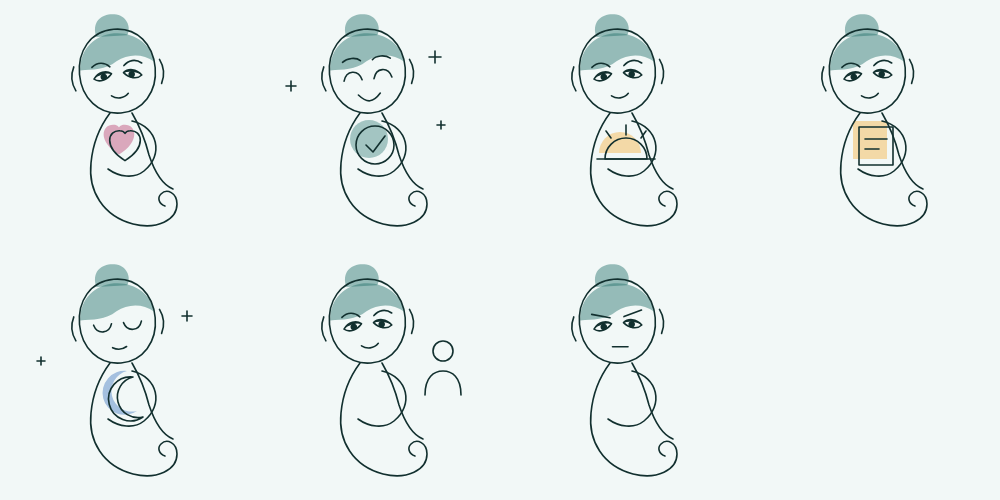
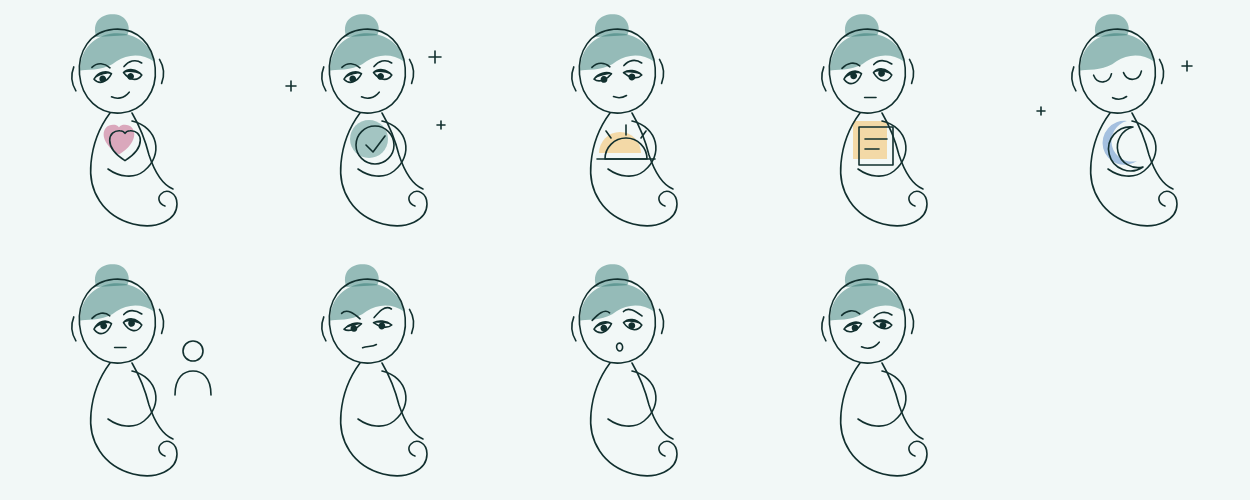
Illustration: expression set studied from reference (serene, tender, wry, stern, worried, watchful); used on Today, Missed, Gate, Debrief
Claude-Session: https://claude.ai/code/session_01JtwwLxtQC1tkxhTDz3rMgK

diff --git a/android/app/src/main/kotlin/app/nayom/ui/screens/Screens.kt b/android/app/src/main/kotlin/app/nayom/ui/screens/Screens.kt
@@ -57,6 +57,7 @@ fun TodayScreen(st: AppState) = Screen(actions = {
     val miss = st.unhandledMiss
     if (miss != null) {
         Card {
+            Row(Modifier.fillMaxWidth(), horizontalArrangement = Arrangement.Center) { Illustration("face_stern", colors.berry, 150) }
             Text("MISSED", style = NayomType.status, color = colors.berry)
             Spacer(Modifier.height(12.dp))
             Text("${miss.person}'s ${miss.what.lowercase()} was due at ${miss.due.format(hm)}.", style = NayomType.title, color = colors.ink)
@@ -190,8 +191,9 @@ fun GateScreen(st: AppState, askId: String) {
         Button("Yes", false, Modifier.fillMaxWidth()) { if (!locked) go(Decision.Yes) }
         Spacer(Modifier.height(4.dp))
         Row(Modifier.fillMaxWidth(), horizontalArrangement = Arrangement.Center) { Label(if (locked) "Yes and Later unlock in $left s" else "Choose") }
-    }) {
-        Title("Before you say yes")
+    }, scroll = true) {
+        Row(Modifier.fillMaxWidth(), horizontalArrangement = Arrangement.Center) { Illustration("face_wry", colors.berry, 170) }
+    Title("Before you say yes")
         Text("${a.from} asks: ${a.what}.", style = NayomType.title, color = colors.ink)
         val clash = st.open.firstOrNull { it.due.isBefore(st.now.plusHours(24)) }
         if (clash != null) Card { IconLine(R.drawable.ic_clock, colors.amber, "Pushes out ${clash.person}'s ${clash.what.lowercase()}, due ${clash.due.format(hm)}.") }
@@ -206,6 +208,7 @@ fun DebriefScreen(st: AppState, id: String) {
         Button("Save", why.isNotBlank(), Modifier.fillMaxWidth()) { if (why.isNotBlank()) st.debrief(id, why) }
         Button("Back", false, Modifier.fillMaxWidth()) { st.back() }
     }, scroll = true) {
+        Row(Modifier.fillMaxWidth(), horizontalArrangement = Arrangement.Center) { Illustration("face_worried", colors.sky, 170) }
         Title("Debrief")
         Text("What got in the way of ${p?.what?.lowercase() ?: "it"}?", style = NayomType.title, color = colors.ink)
         Field("One line, honest", why, { why = it }, false, 120)

diff --git a/design/illustrations/ill6.py b/design/illustrations/ill6.py
@@ -19,21 +19,43 @@ BUN="M92 24C88 8 100 1 112 3C124 5 128 17 123 25Z"
 EARL="M67 52C63 60 63 68 67 76"; EARR="M153 52C157 60 157 68 153 76"
 BODY="M99 102C90 114 82 130 80 152C77 180 92 205 122 213C146 219 166 209 166 193C166 182 156 177 150 183C146 187 148 193 154 195"
 BODY2="M121 102C128 114 134 128 138 144C144 162 152 174 162 178"
-def almond(_):
-    # leaf-shaped eyes, outer corners a touch lower, as in the reference
-    return ["M86 66C91 58 99 57 104 62C99 72 91 74 86 66Z","M134 66C129 58 121 57 116 62C121 72 129 74 134 66Z"]
-def almond_fill():
-    # iris dots + a bold upper lid (thin filled crescent)
-    return [ell(96,65.5,3.6,3.6),ell(124,65.5,3.6,3.6),"M86 66C91 58 99 57 104 62C99 60 91 62 86 66Z","M134 66C129 58 121 57 116 62C121 60 129 62 134 66Z"]
+def L(x): return 220-x   # mirror about the head's centre line
+def pth(pts): return pts
+def eye_pair(open_, dx=0, dy=0, r=3.4):
+    up=(1-open_)*5
+    def one(mirror):
+        X=(lambda x: L(x)) if mirror else (lambda x: x)
+        o=(X(86),66); i=(X(104),62)
+        c1=(X(91),58+up); c2=(X(99),57+up)
+        l1=(X(99),62+10*open_); l2=(X(91),66+8*open_)
+        return f"M{o[0]} {o[1]}C{c1[0]} {c1[1]:.1f} {c2[0]} {c2[1]:.1f} {i[0]} {i[1]}C{l1[0]} {l1[1]:.1f} {l2[0]} {l2[1]:.1f} {o[0]} {o[1]}Z", \
+               f"M{o[0]} {o[1]}C{c1[0]} {c1[1]:.1f} {c2[0]} {c2[1]:.1f} {i[0]} {i[1]}C{X(99)} {60+up:.1f} {X(91)} {62+up/2:.1f} {o[0]} {o[1]}Z"
+    (lo,lc),(ro,rc)=one(False),one(True)
+    cy=65+dy+(1-open_)*2
+    return [lo,ro],[ell(96+dx,cy,r,r),ell(124+dx,cy,r,r),lc,rc]
+def brows(lo,li,ro,ri,arch=5):
+    return [f"M85 {lo}C91 {lo-arch} 98 {li-arch} 103 {li}", f"M135 {ro}C129 {ro-arch} 122 {ri-arch} 117 {ri}"]
+MOUTH={"smile":"M102 84C107 88 114 88 119 84","smirk":"M102 85C107 88 114 88 120 82","soft":"M104 85C108 87 113 87 117 85",
+       "flat":"M103 86C108 85 113 86 117 84","oh":None,"line":"M105 86H115"}
+def face_parts(op,dx,dy,b,mouth,r=3.4):
+    e,d=eye_pair(op,dx,dy,r)
+    m=[MOUTH[mouth]] if MOUTH[mouth] else [ell(110,86,3,4)]
+    return e+brows(*b)+m, d
+FACES={ # open, look dx, look dy, brows (outerL,innerL,outerR,innerR), mouth
+ "serene": (.55,0,1.2,(54,55,54,55),"soft"),
+ "tender": (.8,-1.2,1,(54,56,54,56),"smirk"),
+ "wry":    (.7,1.2,0,(52,52,56,57),"smirk"),
+ "stern":  (.45,0,0,(50,57,50,57),"flat"),
+ "worried":(.85,0,.5,(57,51,57,51),"oh"),
+ "watchful":(1,0,-1.5,(55,54,55,54),"line"),
+}
 def eyes(kind):
-    if kind=="calm":
-        return almond(0)+["M85 54C91 49 98 50 103 55","M135 54C129 49 122 50 117 55","M102 84C107 88 114 88 119 83"],almond_fill()
+    if kind in FACES:
+        op,dx,dy,b,m=FACES[kind]; return face_parts(op,dx,dy,b,m)
     if kind=="happy":
         return ["M86 68C89 57 101 57 104 68","M116 68C119 57 131 57 134 68","M86 49C91 45 100 45 104 49","M134 49C129 45 120 45 116 49","M99 83C107 92 113 92 121 83"],[]
     if kind=="sleep":
         return ["M86 62C89 72 101 72 104 62","M116 62C119 72 131 72 134 62","M103 86C108 89 112 89 117 86"],[]
-    if kind=="stern":
-        return almond(0)+["M85 51L103 56","M135 51L117 56","M103 85H117"],almond_fill()
 def arms(): return ["M121 110C147 116 153 144 133 160C123 168 108 166 97 158"]
 def robot(kind):
     e,d=eyes(kind)
@@ -46,19 +68,19 @@ def scene(n,col,kind,prop_line,prop_fill,tx=6,ty=6,sc=1.0,front=None,extra=()):
     dots=[rot(x,-5,110,102) for x in d]
     S[n]=dict(col=col,robot=rb,dots=dots,brand=br,prop=prop_line,fill=prop_fill,arms=arms(),extra=list(extra),tx=tx,ty=ty,sc=sc)
 H=heart(114,136,.85)
-scene("nothing_owed","#B3265B","calm",[H],[H])
+scene("nothing_owed","#B3265B","tender",[H],[H])
 CK=circ(114,134,19)
-scene("all_kept","#23706B","happy",[CK,"M105 134L112 141L124 125"],[CK],extra=["M174 40V52M168 46H180","M30 70V80M25 75H35","M180 110V118M176 114H184"])
+scene("all_kept","#23706B","tender",[CK,"M105 134L112 141L124 125"],[CK],extra=["M174 40V52M168 46H180","M30 70V80M25 75H35","M180 110V118M176 114H184"])
 SUN="M94 148A21 21 0 0 1 136 148Z"
-scene("clear_sky","#F5A524","calm",[SUN,"M86 148H144","M115 114V124","M135 120L130 127","M95 120L100 127"],[SUN])
+scene("clear_sky","#F5A524","serene",[SUN,"M86 148H144","M115 114V124","M135 120L130 127","M95 120L100 127"],[SUN])
 PG="M98 116H132V154H98Z"
-scene("blank_page","#F5A524","calm",[PG,"M104 128H126","M104 138H118"],[PG])
+scene("blank_page","#F5A524","watchful",[PG,"M104 128H126","M104 138H118"],[PG])
 MN="M122 116A22 22 0 1 0 132 156A17 17 0 0 1 122 116Z"
 scene("quiet_day","#2563B8","sleep",[MN],[MN],extra=["M176 50V60M171 55H181","M30 96V104M26 100H34"])
-scene("no_one_yet","#2563B8","calm",[],[],extra=[circ(182,90,10),"M164 134C164 116 173 110 182 110C191 110 200 116 200 134"])
-scene("stern","#B3265B","stern",[],[])
+scene("no_one_yet","#2563B8","watchful",[],[],extra=[circ(182,90,10),"M164 134C164 116 173 110 182 110C191 110 200 116 200 134"])
+for k in ("stern","worried","wry"): scene("face_"+k,"#B3265B",k,[],[])
 json.dump(S,open("scenes6.json","w"))
-def svg(names,SW=1.6,cols=4):
+def svg(names,SW=1.6,cols=5):
     out=""
     for i,n in enumerate(names):
         s=S[n]; x=(i%cols)*250; y=(i//cols)*250
@@ -69,5 +91,5 @@ def svg(names,SW=1.6,cols=4):
         g+="".join(f'<path d="{d}"/>' for d in s["robot"])+"".join(f'<path d="{d}" fill="{INK}" stroke="none"/>' for d in s["dots"])
         g+="".join(f'<path d="{d}"/>' for d in s["prop"]+s["arms"]+s["extra"])+'</g>'
         out+=g+"</g>"
-    return f'<svg xmlns="http://www.w3.org/2000/svg" width="1000" height="500"><rect width="1000" height="500" fill="#F2F8F7"/>{out}</svg>'
+    return f'<svg xmlns="http://www.w3.org/2000/svg" width="1250" height="500"><rect width="1250" height="500" fill="#F2F8F7"/>{out}</svg>'
 open("sheet6.svg","w").write(svg(list(S)))
